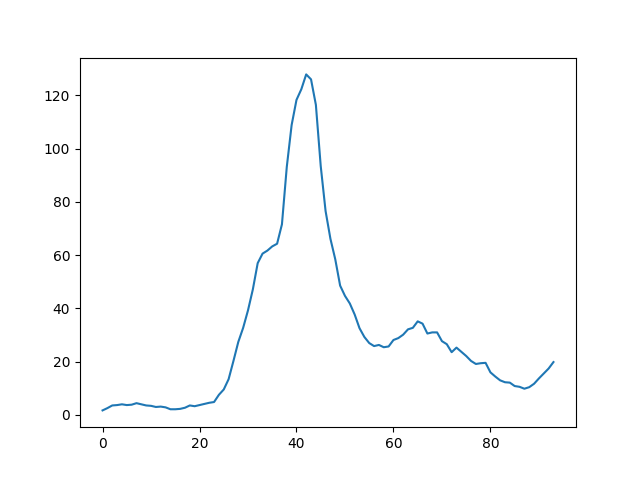
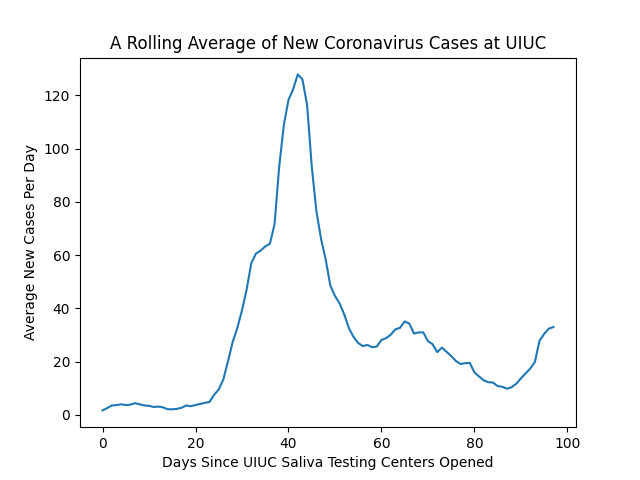
added labels and updated data

diff --git a/smooth.py b/smooth.py
@@ -39,14 +39,28 @@ cases = seven_day_rolling_average(cases)
 rates = np.array(rates).astype(np.float)
 rates = seven_day_rolling_average(rates)
 
+# graphing time
+
+xlabel = "Days Since UIUC Saliva Testing Centers Opened"
+
 plt.plot(cases)
+plt.title("A Rolling Average of New Coronavirus Cases at UIUC")
+plt.xlabel(xlabel)
+plt.ylabel("Average New Cases Per Day")
 plt.savefig("cases.png")
 plt.clf()
 
 plt.plot(rates)
+plt.title("A Rolling Average of Coronavirus Positivity Rates at UIUC")
+plt.xlabel(xlabel)
+plt.ylabel("Average Positivity Rate")
 plt.savefig("rates.png")
 plt.clf()
 
 plt.plot(cumulative_cases)
+plt.title("Cumulative Coronavirus Cases at UIUC")
+plt.xlabel(xlabel)
+plt.ylabel("Cumulative Cases Since July 6, 2020")
 plt.savefig("cumulative_cases.png")
+plt.clf()
 
